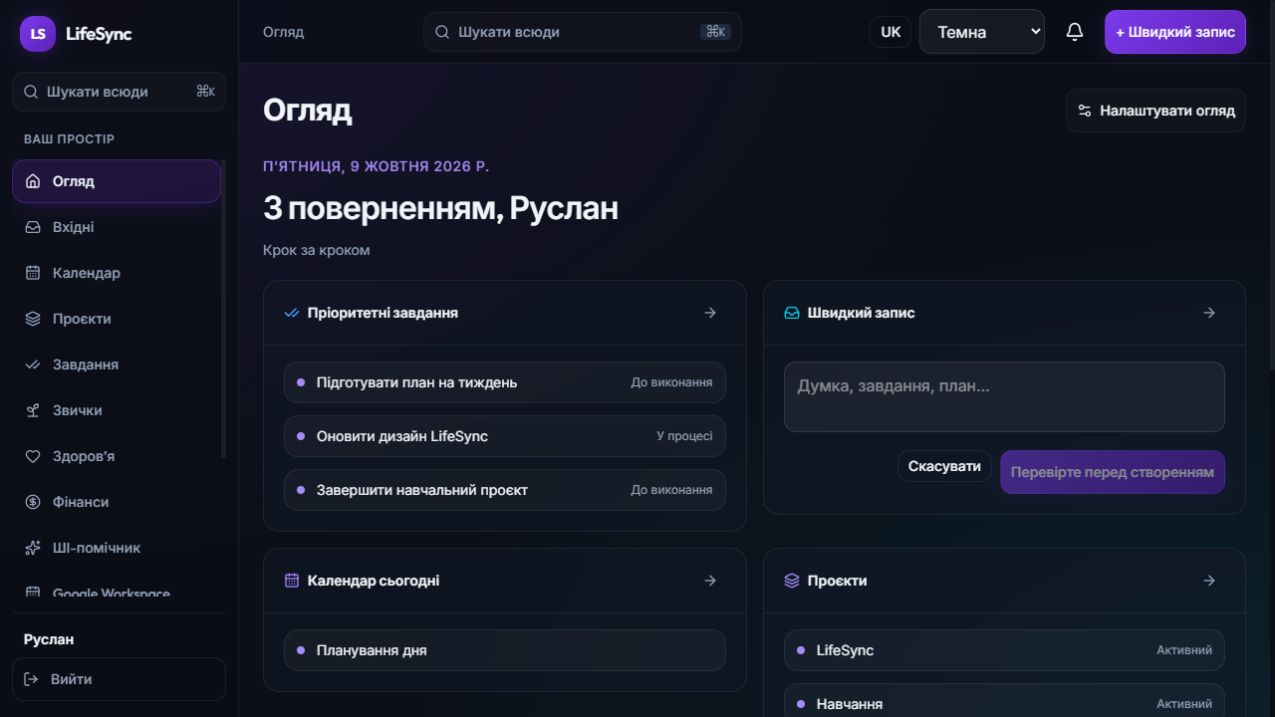
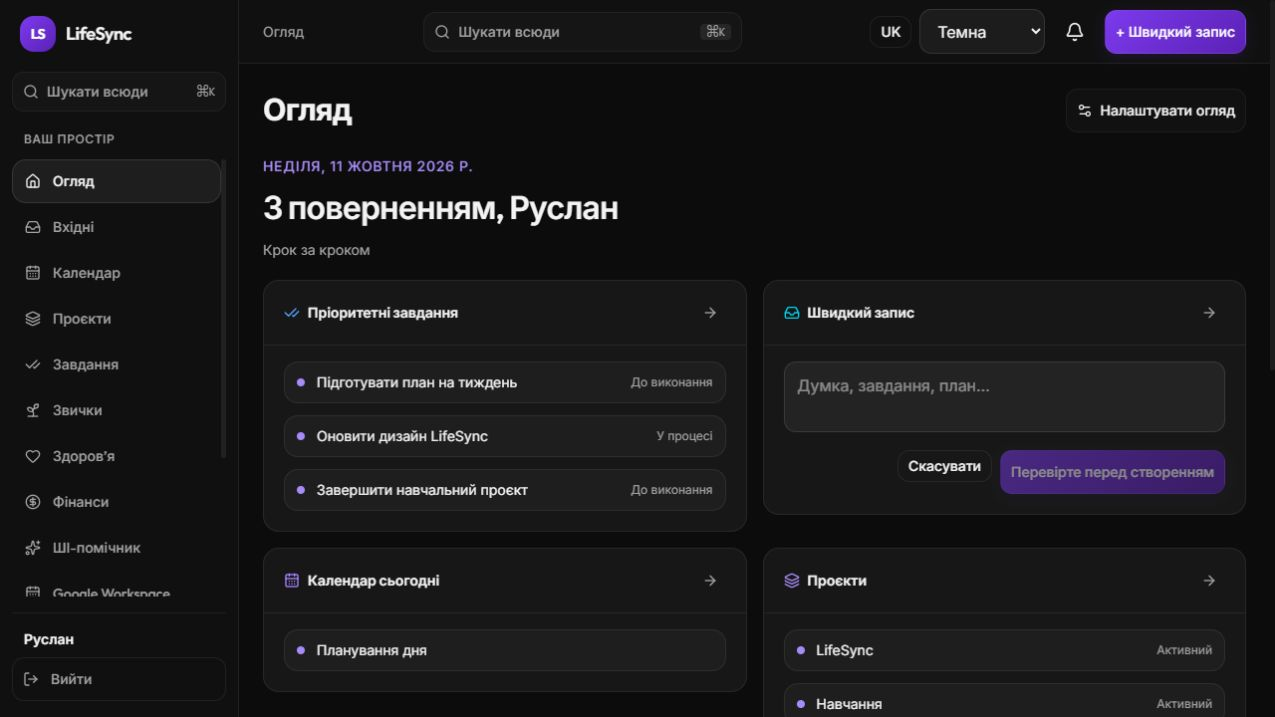
fix: use neutral black and gray dark theme

diff --git a/apps/web/src/app/globals.css b/apps/web/src/app/globals.css
@@ -49,24 +49,24 @@
   --accent-glow: rgba(124, 58, 237, 0.12);
 }
 .dark {
-  --background: #0b0f17;
-  --foreground: #f1f5f9;
-  --card: rgba(17, 24, 39, 0.55);
-  --muted: #1e293b;
-  --muted-foreground: #94a3b8;
-  --accent: #164e63;
+  --background: #0c0c0c;
+  --foreground: #f3f3f3;
+  --card: rgba(24, 24, 24, 0.92);
+  --muted: #262626;
+  --muted-foreground: #a3a3a3;
+  --accent: #262626;
   --primary: #a78bfa;
-  --primary-foreground: #0b0f17;
+  --primary-foreground: #0c0c0c;
   --border: rgba(255, 255, 255, 0.07);
   --destructive: #fb7185;
-  --sidebar-bg: rgba(10, 13, 22, 0.85);
-  --header-bg: rgba(10, 13, 22, 0.8);
+  --sidebar-bg: rgba(17, 17, 17, 0.96);
+  --header-bg: rgba(17, 17, 17, 0.96);
   --input-bg: rgba(255, 255, 255, 0.05);
   --input-border: rgba(255, 255, 255, 0.1);
   --subcard-bg: rgba(255, 255, 255, 0.03);
-  --ambient-a: rgba(124, 58, 237, 0.12);
-  --ambient-b: rgba(6, 182, 212, 0.1);
-  --accent-glow: rgba(124, 58, 237, 0.25);
+  --ambient-a: transparent;
+  --ambient-b: transparent;
+  --accent-glow: transparent;
 }
 * {
   border-color: var(--border);
@@ -329,4 +329,10 @@ body::before {
     margin: -1rem -1rem 1rem;
     padding: 0.875rem 1rem;
   }
+}
+
+.dark .lifesync-navigation a[aria-current="page"] {
+  background: rgba(255, 255, 255, 0.06);
+  border-color: rgba(255, 255, 255, 0.1);
+  box-shadow: none;
 }

diff --git a/docs/superpowers/plans/2026-10-09-restore-original-style.md b/docs/superpowers/plans/2026-10-09-restore-original-style.md
@@ -38,3 +38,5 @@
 - Browser: actual fonts Inter/Outfit and 1280px desktop / 390px mobile dark dashboard inspected, without horizontal overflow; light desktop theme inspected. Header theme reset reproduced and corrected by applying each fetched preference object only once.
 - Independent review: contrast, responsive header shrink and saved greeting widget size corrected. Saved widget order retained. Defaults now place tasks and capture first.
 - Preview uses local demonstration fixtures solely to capture the real UI, not production data or API configuration. Fixtures remain ignored under .local.
+
+- 2026-10-11: user requested a neutral dark theme. Replaced dark surface tokens with black/gray, removed violet/cyan ambient glow and active-navigation glow. Production build passed; refreshed dashboard preview from the actual UI.
